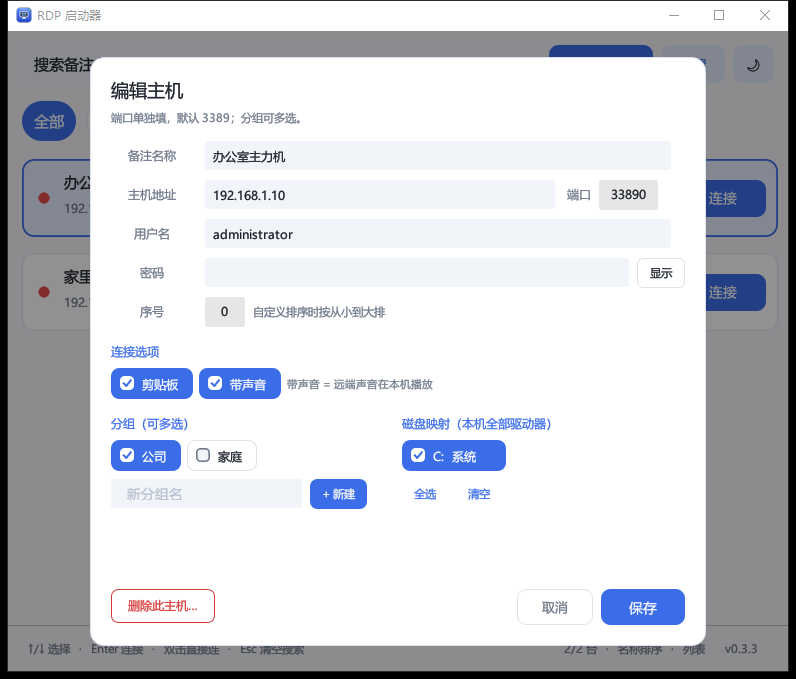
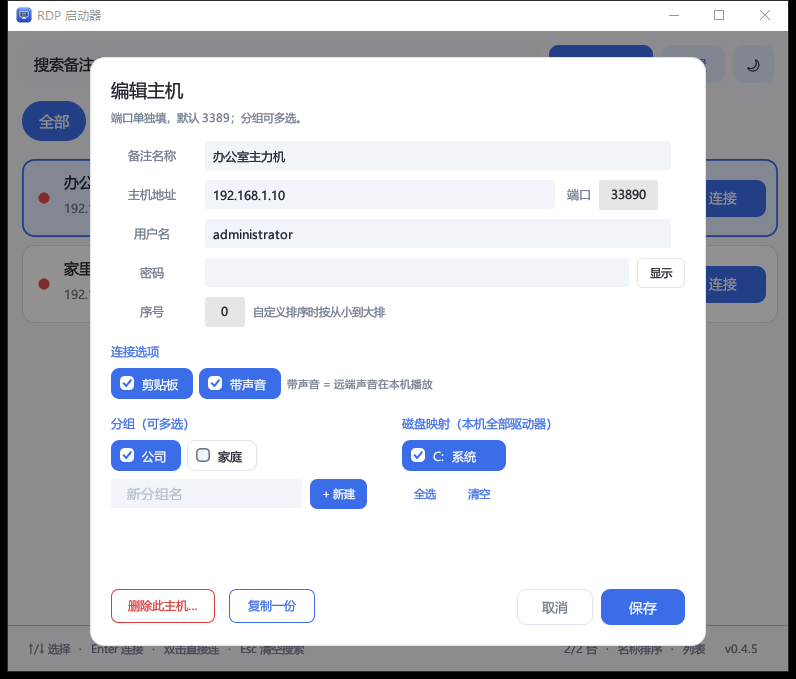
v0.4.5：编辑界面可以按原样复制一台主机
- 编辑主机弹窗左下新增「复制一份」（紧挨「删除此主机…」）
- models::duplicate / duplicate_into / copy_name：只换 id，备注名加「副本」，
  重名自动接 2、3……；地址、端口、账号、密码、分组、盘符、开关、序号全部照搬，
  复制品插在原主机后面，探活状态沿用
- 编辑已保存主机不再做同地址同端口查重（否则副本改不了名字），新增仍然拦
- 版本号 0.4.5，更新 HANDOFF / README / 需求规格 / 使用说明 / 编辑弹窗截图
- 新增 4 个单元测试，cargo test 65 passed

diff --git a/src/models.rs b/src/models.rs
@@ -224,6 +224,37 @@ impl Host {
     }
 }
 
+/// 复制一份时用的名字：原备注名后面加「副本」；这个名字已经被占了就继续加 2、3……
+///
+/// 备注名为空时用 `display_name()`（也就是主机地址），复制出来仍然认得出是哪台。
+pub fn copy_name(host: &Host, existing: &[Host]) -> String {
+    let base = host.display_name().trim().to_string();
+    let mut candidate = format!("{base}副本");
+    let mut n = 2u32;
+    while existing.iter().any(|h| h.name.trim() == candidate) && n <= 999 {
+        candidate = format!("{base}副本{n}");
+        n += 1;
+    }
+    candidate
+}
+
+/// 原样复制一台主机：只换 id、改名字，其余字段（地址、端口、账号、密码、分组、
+/// 盘符、剪贴板 / 声音、序号）一个不动。
+pub fn duplicate(host: &Host, existing: &[Host]) -> Host {
+    let mut copy = host.clone();
+    copy.id = new_id();
+    copy.name = copy_name(host, existing);
+    copy
+}
+
+/// 原样复制并插在原主机后面（列表里紧挨着），返回新主机在 `hosts` 里的下标。
+pub fn duplicate_into(hosts: &mut Vec<Host>, index: usize) -> Option<usize> {
+    let source = hosts.get(index)?.clone();
+    let copy = duplicate(&source, hosts);
+    hosts.insert(index + 1, copy);
+    Some(index + 1)
+}
+
 pub fn format_authority(host: &str, port: u16) -> String {
     let host = host.trim();
     if host.contains(':') {
@@ -572,6 +603,88 @@ mod tests {
         assert_eq!(visible_indices(&hosts, "公司", None, SortMode::Name), vec![0]);
         assert_eq!(visible_indices(&hosts, "3390", None, SortMode::Name), vec![0]);
         assert!(visible_indices(&hosts, "3391", None, SortMode::Name).is_empty());
+    }
+
+    #[test]
+    fn duplicate_keeps_every_field_but_id_and_name() {
+        let source = Host {
+            id: "a".into(),
+            name: "办公室主力机".into(),
+            host: "10.0.0.5".into(),
+            port: 3390,
+            username: "Admin".into(),
+            password: "secret".into(),
+            groups: vec!["公司".into(), "测试".into()],
+            drives: vec!["C".into(), "D".into()],
+            clipboard: false,
+            audio: false,
+            order: 7,
+        };
+        let copy = duplicate(&source, std::slice::from_ref(&source));
+        assert_eq!(copy.name, "办公室主力机副本");
+        assert_ne!(copy.id, source.id);
+        assert_eq!(copy.host, source.host);
+        assert_eq!(copy.port, source.port);
+        assert_eq!(copy.username, source.username);
+        assert_eq!(copy.password, source.password);
+        assert_eq!(copy.groups, source.groups);
+        assert_eq!(copy.drives, source.drives);
+        assert_eq!(copy.clipboard, source.clipboard);
+        assert_eq!(copy.audio, source.audio);
+        assert_eq!(copy.order, source.order);
+    }
+
+    #[test]
+    fn duplicate_names_are_numbered_when_taken() {
+        let source = Host {
+            id: "a".into(),
+            name: "A".into(),
+            host: "10.0.0.1".into(),
+            ..Default::default()
+        };
+        let copy1 = duplicate(&source, std::slice::from_ref(&source));
+        assert_eq!(copy1.name, "A副本");
+
+        let mut hosts = vec![source, copy1];
+        let copy2 = duplicate(&hosts[0], &hosts);
+        assert_eq!(copy2.name, "A副本2");
+        hosts.push(copy2);
+        let copy3 = duplicate(&hosts[0], &hosts);
+        assert_eq!(copy3.name, "A副本3");
+    }
+
+    #[test]
+    fn duplicate_of_unnamed_host_uses_address_as_base() {
+        let source = Host {
+            id: "a".into(),
+            host: "10.0.0.9".into(),
+            ..Default::default()
+        };
+        assert_eq!(duplicate(&source, &[]).name, "10.0.0.9副本");
+    }
+
+    #[test]
+    fn duplicate_into_inserts_right_after_source() {
+        let source = Host {
+            id: "a".into(),
+            name: "A".into(),
+            host: "10.0.0.1".into(),
+            ..Default::default()
+        };
+        let other = Host {
+            id: "b".into(),
+            name: "B".into(),
+            host: "10.0.0.2".into(),
+            ..Default::default()
+        };
+        let mut hosts = vec![source.clone(), other];
+        let at = duplicate_into(&mut hosts, 0).unwrap();
+        assert_eq!(at, 1);
+        assert_eq!(hosts[1].name, "A副本");
+        assert_eq!(hosts[1].host, "10.0.0.1");
+        assert_ne!(hosts[1].id, source.id);
+        assert_eq!(hosts[2].name, "B", "其它主机的位置不能被挤乱");
+        assert!(duplicate_into(&mut hosts, 99).is_none());
     }
 
     #[test]

diff --git a/src/dialogs.rs b/src/dialogs.rs
@@ -180,6 +180,10 @@ pub enum HostDialogOutcome {
     None,
     Cancel,
     Save(Host),
+    /// 编辑界面里点了「复制一份」：调用方按这个下标把主机原样复制一份（名字加「副本」）。
+    Copy {
+        index: usize,
+    },
     Delete {
         index: usize,
         host_id: String,
@@ -601,7 +605,7 @@ pub fn draw_host_dialog(
                     }
 
                     ui.horizontal(|ui| {
-                        if editing_index.is_some() && !form.delete_armed {
+                        if let Some(index) = editing_index.filter(|_| !form.delete_armed) {
                             if ui
                                 .add(
                                     egui::Button::new(
@@ -615,6 +619,24 @@ pub fn draw_host_dialog(
                                 .clicked()
                             {
                                 form.delete_armed = true;
+                            }
+                            ui.add_space(6.0);
+                            // 原样复制一份：地址、端口、账号、密码、分组、盘符、开关、序号全带走，
+                            // 名字后面加「副本」，插在原主机后面
+                            if ui
+                                .add(
+                                    egui::Button::new(
+                                        RichText::new("复制一份").size(12.0).color(pal.accent),
+                                    )
+                                    .fill(Color32::TRANSPARENT)
+                                    .stroke(Stroke::new(1.0_f32, pal.accent))
+                                    .corner_radius(CornerRadius::same(7))
+                                    .min_size(Vec2::new(86.0, 34.0)),
+                                )
+                                .on_hover_text("按原样复制这台主机，名字后面加「副本」")
+                                .clicked()
+                            {
+                                outcome = HostDialogOutcome::Copy { index };
                             }
                         }
 
@@ -1348,12 +1370,18 @@ fn text_input(
     response
 }
 
-/// 同地址 + 同端口已经存在（地址大小写不敏感），返回那台重复的主机。
+/// 新增主机时的查重：同地址 + 同端口已经存在（地址大小写不敏感），返回那台重复的主机。
+///
+/// 编辑已保存的主机时不查重：复制出来的主机本来就和原主机同地址同端口，
+/// 还拦着的话连改个名字都保存不了。
 fn find_duplicate<'a>(
     others: &'a [Host],
     editing_index: Option<usize>,
     host: &Host,
 ) -> Option<&'a Host> {
+    if editing_index.is_some() {
+        return None;
+    }
     others.iter().enumerate().find_map(|(i, other)| {
         (Some(i) != editing_index
             && other.host.eq_ignore_ascii_case(host.host.trim())
@@ -1582,6 +1610,8 @@ mod tests {
         candidate.port = 3389;
         // 编辑自己不算重复
         assert!(find_duplicate(std::slice::from_ref(&existing), Some(0), &candidate).is_none());
+        // 编辑一台主机时，同地址同端口的另一台（复制出来的副本）也不再拦
+        assert!(find_duplicate(std::slice::from_ref(&existing), Some(1), &candidate).is_none());
     }
 
     #[test]

diff --git a/src/main.rs b/src/main.rs
@@ -881,6 +881,28 @@ impl LauncherApp {
         self.push_toast(format!("已删除「{}」{suffix}", host.display_name()), false);
     }
 
+    /// 复制一台主机：原样复制，名字加「副本」（重名自动加编号），插在原主机后面。
+    /// 返回复制出来的新名字。
+    fn duplicate_host(&mut self, index: usize) -> Option<String> {
+        let source_id = self.store.hosts.get(index)?.id.clone();
+        let at = models::duplicate_into(&mut self.store.hosts, index)?;
+        let copy = self.store.hosts.get(at)?;
+        let id = copy.id.clone();
+        let name = copy.name.clone();
+        self.store.normalize();
+        // 地址、端口没变，探活结果直接沿用，不用再探一次
+        if let Some(status) = self.statuses.get(&source_id).copied() {
+            self.statuses.insert(id.clone(), status);
+        }
+        self.persist();
+        self.refresh_tray_menu();
+        self.refresh_visible();
+        if let Some(pos) = self.visible.iter().position(|&i| self.store.hosts[i].id == id) {
+            self.cursor = pos;
+        }
+        Some(name)
+    }
+
     fn save_host(&mut self, host: Host, mode: dialogs::DialogMode, ctx: &egui::Context) {
         for group in &host.groups {
             self.store.ensure_group(group);
@@ -1391,6 +1413,13 @@ impl eframe::App for LauncherApp {
                 HostDialogOutcome::Save(host) => {
                     let mode = form.mode;
                     self.save_host(host, mode, ctx);
+                }
+                HostDialogOutcome::Copy { index } => {
+                    match self.duplicate_host(index) {
+                        Some(name) => self.push_toast(format!("已复制为「{name}」"), false),
+                        None => self.push_toast("要复制的主机已经不存在了", true),
+                    }
+                    ctx.request_repaint();
                 }
                 HostDialogOutcome::Delete {
                     index,

diff --git a/docs/需求规格.md b/docs/需求规格.md
@@ -1,10 +1,10 @@
-# 需求规格（v3 / v0.4.4 对照）
+# 需求规格（v3 / v0.4.5 对照）
 
 > v3 在 v2 基础上补：关 Windows 的 RDP 安全警告、关闭后保持后台（托盘）、
 > 托盘右键直接列主机、设置单页且分组编辑放最下面、右下角版本号/关于。
 > v0.3.3 做四个输入/显示微调；v0.4.0 做一次全量审计修复（34 项，见下文）；
 > v0.4.1 支持空密码登录；v0.4.2 重做托盘行为；v0.4.3 连接成功后不再自动最小化；
-> v0.4.4 Esc 不再最小化窗口。
+> v0.4.4 Esc 不再最小化窗口；v0.4.5 编辑界面可以「复制一份」主机。
 
 ## 0. v0.4.4 Esc 不再最小化
 
@@ -52,7 +52,7 @@
 | 多实例互串 | 单实例 Mutex + 按 pid 找窗口 |
 | 分组删除重名删错行 | 确认框记（下标 + 名字），两者都匹配才删 |
 | 默认分组被静默清空 | 先 trim 再比对改名映射 |
-| 同地址同端口可重复添加 | 保存时查重并拦下 |
+| 同地址同端口可重复添加 | 新增时保存查重并拦下；v0.4.5 起编辑已保存主机（含复制出来的副本）不再拦，否则副本改不了名字 |
 | 凭据大小写误删 | 共用判断用 `eq_ignore_ascii_case` |
 | `fe80:1` 被静默拆成 host:port | 全十六进制 + 端口 <1024 时不拆 |
 | IPv6 zone id 被判非法 | 允许 `%数字` |
@@ -96,7 +96,7 @@
 | 关闭后双击托盘图标打开主界面 | ✅ | `TrayIconEvent` 的 `Click(Left,Up)` / `DoubleClick` → 事件队列 → `restore_from_tray()`（`SW_RESTORE` + `AddTab` + `Focus`） |
 | 托盘右键菜单：直接列出主机（不要再套「最近主机」子菜单） | ✅ | 菜单根级按当前排序列出全部主机；item id `host:<id>`，点一下直接 `rdp::connect`，不弹主窗口 |
 | 托盘右键菜单：打开主界面 / 退出 | ✅ | 根级两个 item；`quit` → drop 托盘图标 + `ViewportCommand::Close`，`on_exit` 存数据 + 写 exe 尾部 |
-| 右下角版本号，点击弹软件说明和 QLing 制作 | ✅ | 底部右侧 `v0.4.4`；点击打开关于弹窗，显示版本、功能说明、`QLing 制作` |
+| 右下角版本号，点击弹软件说明和 QLing 制作 | ✅ | 底部右侧 `v0.4.5`；点击打开关于弹窗，显示版本、功能说明、`QLing 制作` |
 | 托盘事件在窗口最小化后仍能处理 | ✅ | `set_event_handler` 塞共享队列 + `ctx.request_repaint()`；隐藏期间每 250ms 自唤醒兜底 |
 
 ### v3 的已知边界
@@ -138,6 +138,7 @@
 | 增加序号，自定义排序时用 | ✅ | `Host.order: i64`；编辑界面「序号」；自定义排序按从小到大 |
 | 主机地址 / 端口分离 | ✅ | `Host.host` + `Host.port`；主机字段禁止 `host:port`，端口走端口框 |
 | 其他连接选项 | ✅ | 剪贴板开关；分组/磁盘两栏并排，小窗口下关键项不用滚动 |
+| 复制一台主机（原样复制，名字加「副本」） | ✅ | 编辑弹窗左下「复制一份」→ `HostDialogOutcome::Copy` → `LauncherApp::duplicate_host`；`models::duplicate_into` 原样复制（地址、端口、账号、密码、分组、盘符、剪贴板/声音、序号），只换新 id；备注名加「副本」，重名自动接 2、3……，复制品插在原主机后面；探活状态沿用。复制后仍能编辑：`find_duplicate` 只在新增时拦同地址同端口 |
 
 ## 3. 连接与兼容性
 
@@ -185,7 +186,7 @@
 
 | 文件 | 职责 |
 |---|---|
-| `src/models.rs` | 主机 / 分组 / 设置，地址校验，多分组过滤，三种排序 |
+| `src/models.rs` | 主机 / 分组 / 设置，地址校验，复制主机，多分组过滤，三种排序 |
 | `src/store.rs` | 数据流 + 尾部双份存储、AES-GCM、旧 JSON 迁移、退出 helper |
 | `src/crypto.rs` | 整包加解密、旧版密码字段解密 |
 | `src/drives.rs` | 本机驱动器枚举 |
@@ -200,8 +201,8 @@
 
 测试（`cargo test`）覆盖：整包加密回环、数据流/尾部读写与 revision 选择、
 坏数据备份与旧备份提示、旧 JSON 迁移、域名+端口、IPv6、IPv6 zone id、非法端口、换行注入、
-同 IP 不同端口、凭据大小写不敏感共用、多分组过滤、三种排序、驱动器枚举、
-`.rdp` BOM / 音频 / 盘符去重、凭据 TargetName 剥端口。
+同 IP 不同端口、凭据大小写不敏感共用、多分组过滤、三种排序、复制主机（字段照搬 / 重名编号 /
+插在原主机后面）、驱动器枚举、`.rdp` BOM / 音频 / 盘符去重、凭据 TargetName 剥端口。
 `real_connect_flow`（默认 ignore）真写凭据、真生成 `.rdp`、真拉起 mstsc。
 
 ## 8. 已知限制

diff --git a/README.md b/README.md
@@ -41,6 +41,9 @@ rdp-launcher.exe      # 单文件，主机、密码、设置都在里面
 - **可用性探测**：可关闭；关闭后不发起任何 TCP 探测。
 - **双击直接连接**：列表行或方块卡片双击即连；行上只保留「连接」「编辑」。
 - **删除防误触**：删除按钮收进编辑界面，二次确认。
+- **复制主机**：编辑界面里点「复制一份」，原样复制一台主机（地址、端口、账号、密码、
+  分组、盘符、开关、序号全保留），名字后面自动加「副本」；重名自动接 2、3……
+  复制品插在原主机下面，改完不用重新填一遍。
 - **关闭后保持后台**：默认关闭；开启后关窗口只隐藏主界面，任务栏通知区域留一个小图标。
 - **托盘右键菜单**：直接把所有主机列出来（点一下直接连）/ 打开主界面 / 退出。
 - **右下角版本号**：点开「关于」，看软件说明和 `QLing 制作`。

diff --git a/dist/使用说明.md b/dist/使用说明.md
@@ -84,6 +84,9 @@ HKCU\Software\Microsoft\Terminal Server Client\LocalDevices\<主机> = 0x6F
   盘符前有醒目的方框和对勾。连接时如果盘不在了会自动跳过并提示。
 - **带声音**：打开 = 远端声音在本机播放；关闭 = 远端静音。
 - **序号**：默认排序选「自定义」时，按序号从小到大排。
+- **复制主机**：编辑界面左下角「复制一份」，按原样复制这台主机（地址、端口、账号、密码、
+  分组、盘符、声音、序号都照搬），备注名后面自动加「副本」；重名会变成「副本2」「副本3」。
+  复制品排在这台主机下面，点「编辑」就能接着改。
 - **删除**：编辑界面左下角「删除此主机…」，会再确认一次；
   列表上只有「连接」「编辑」，不会手滑删掉。
 
